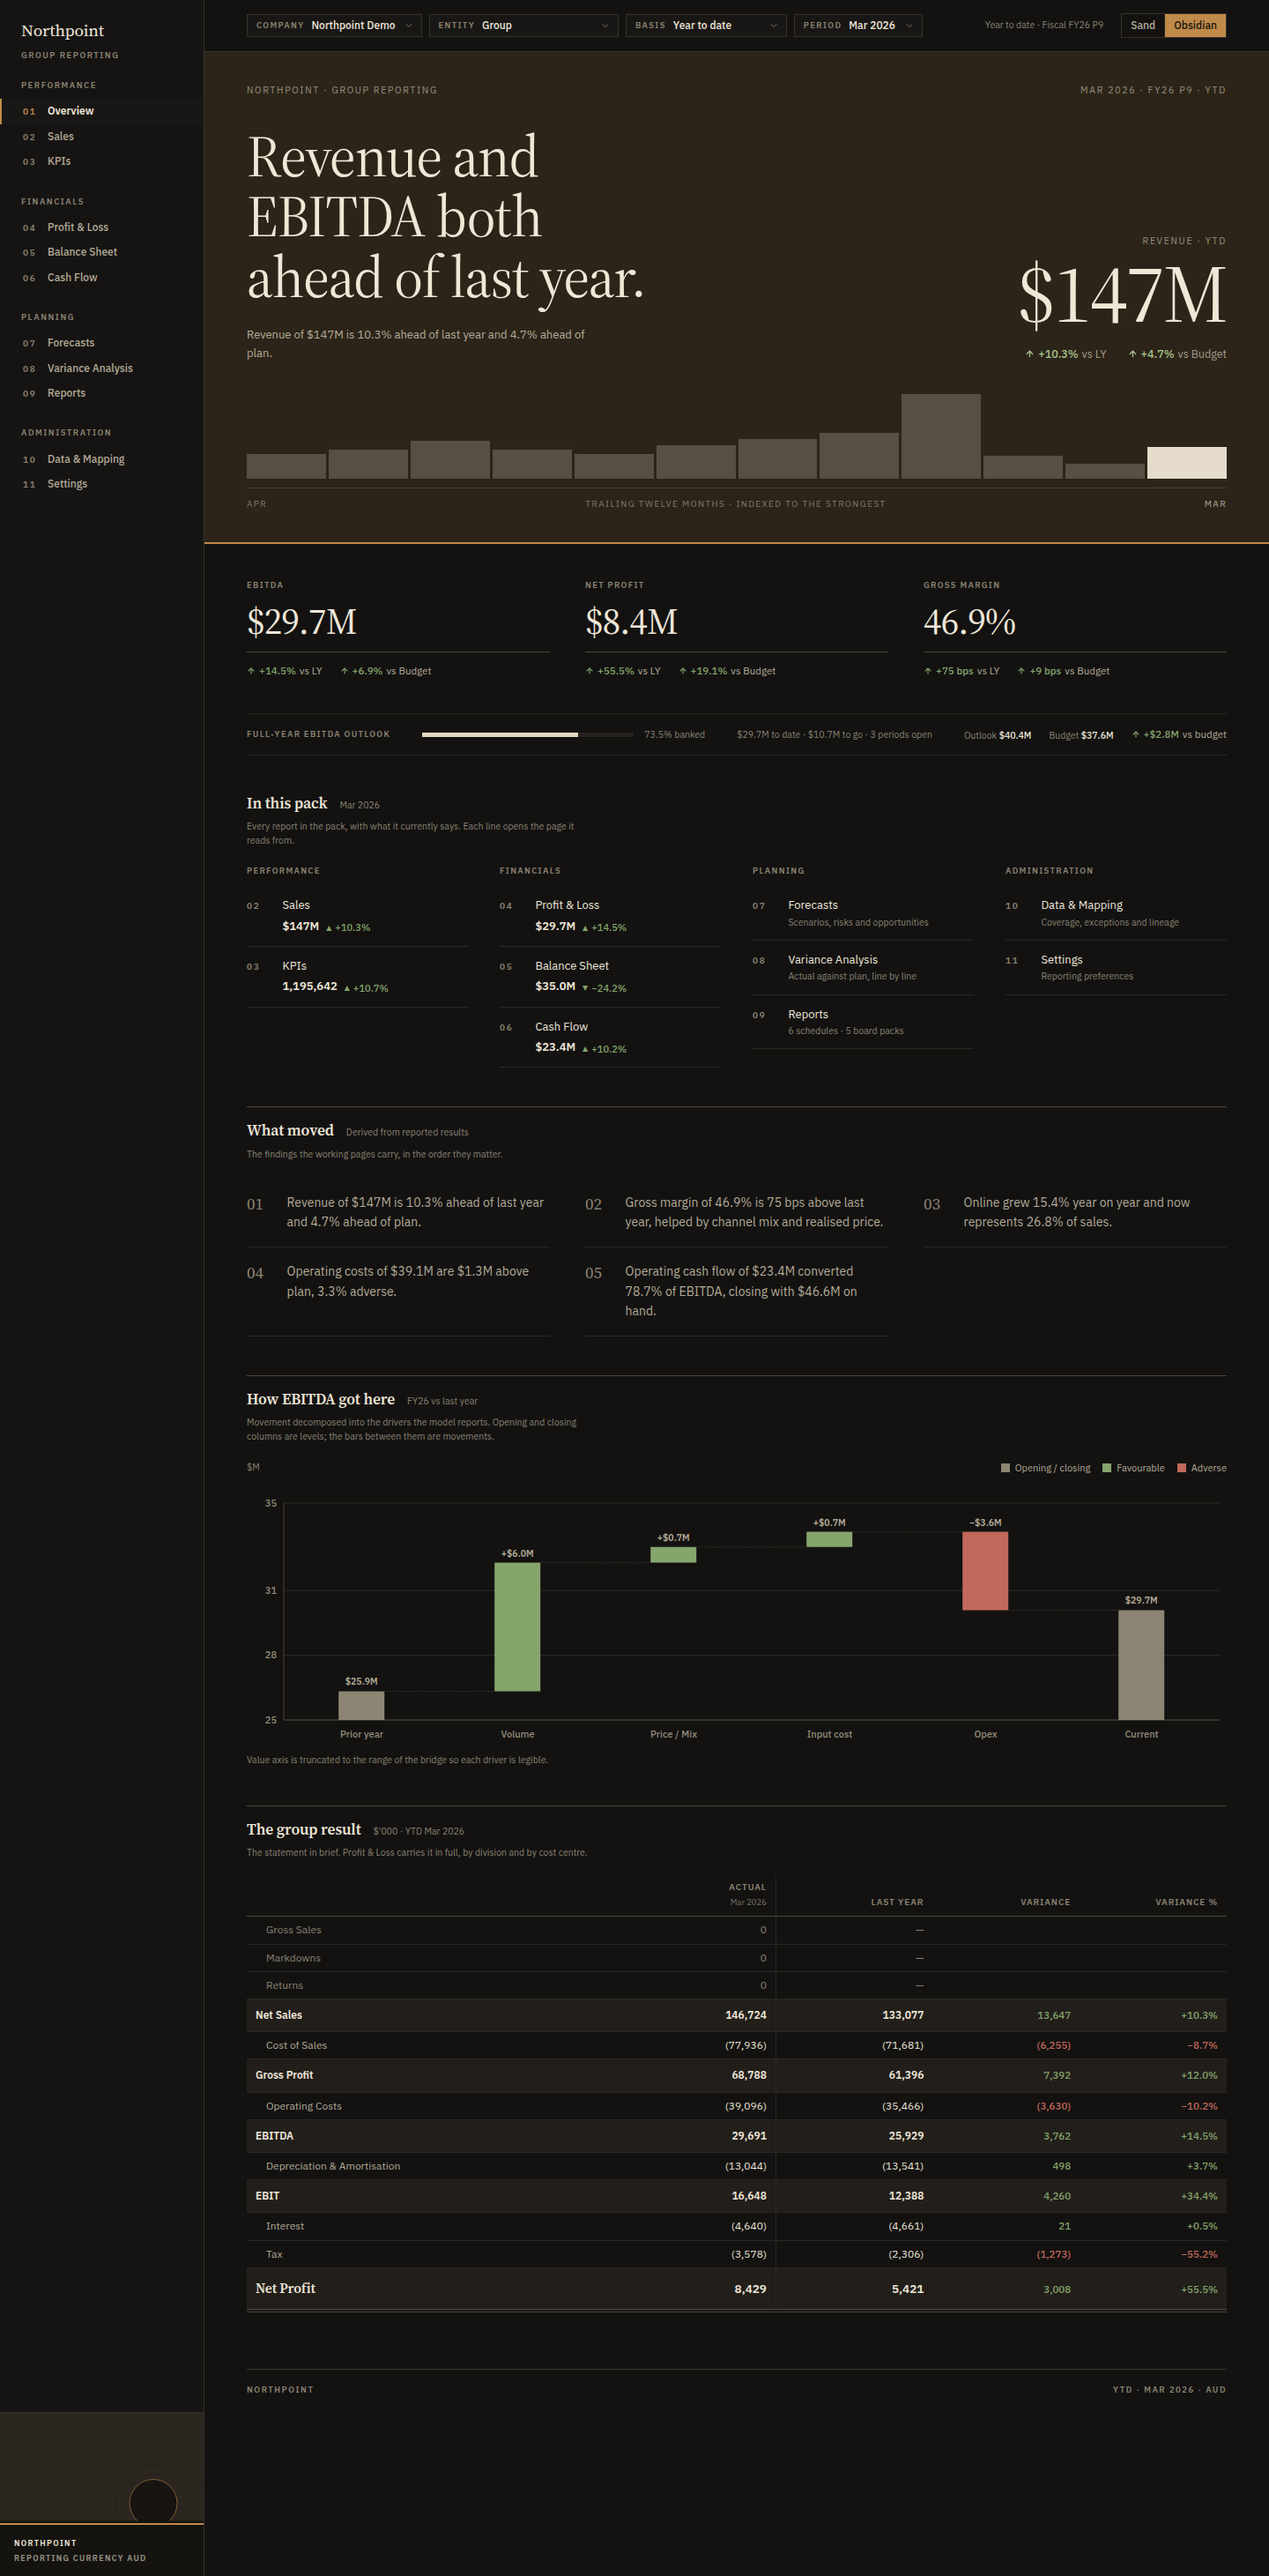
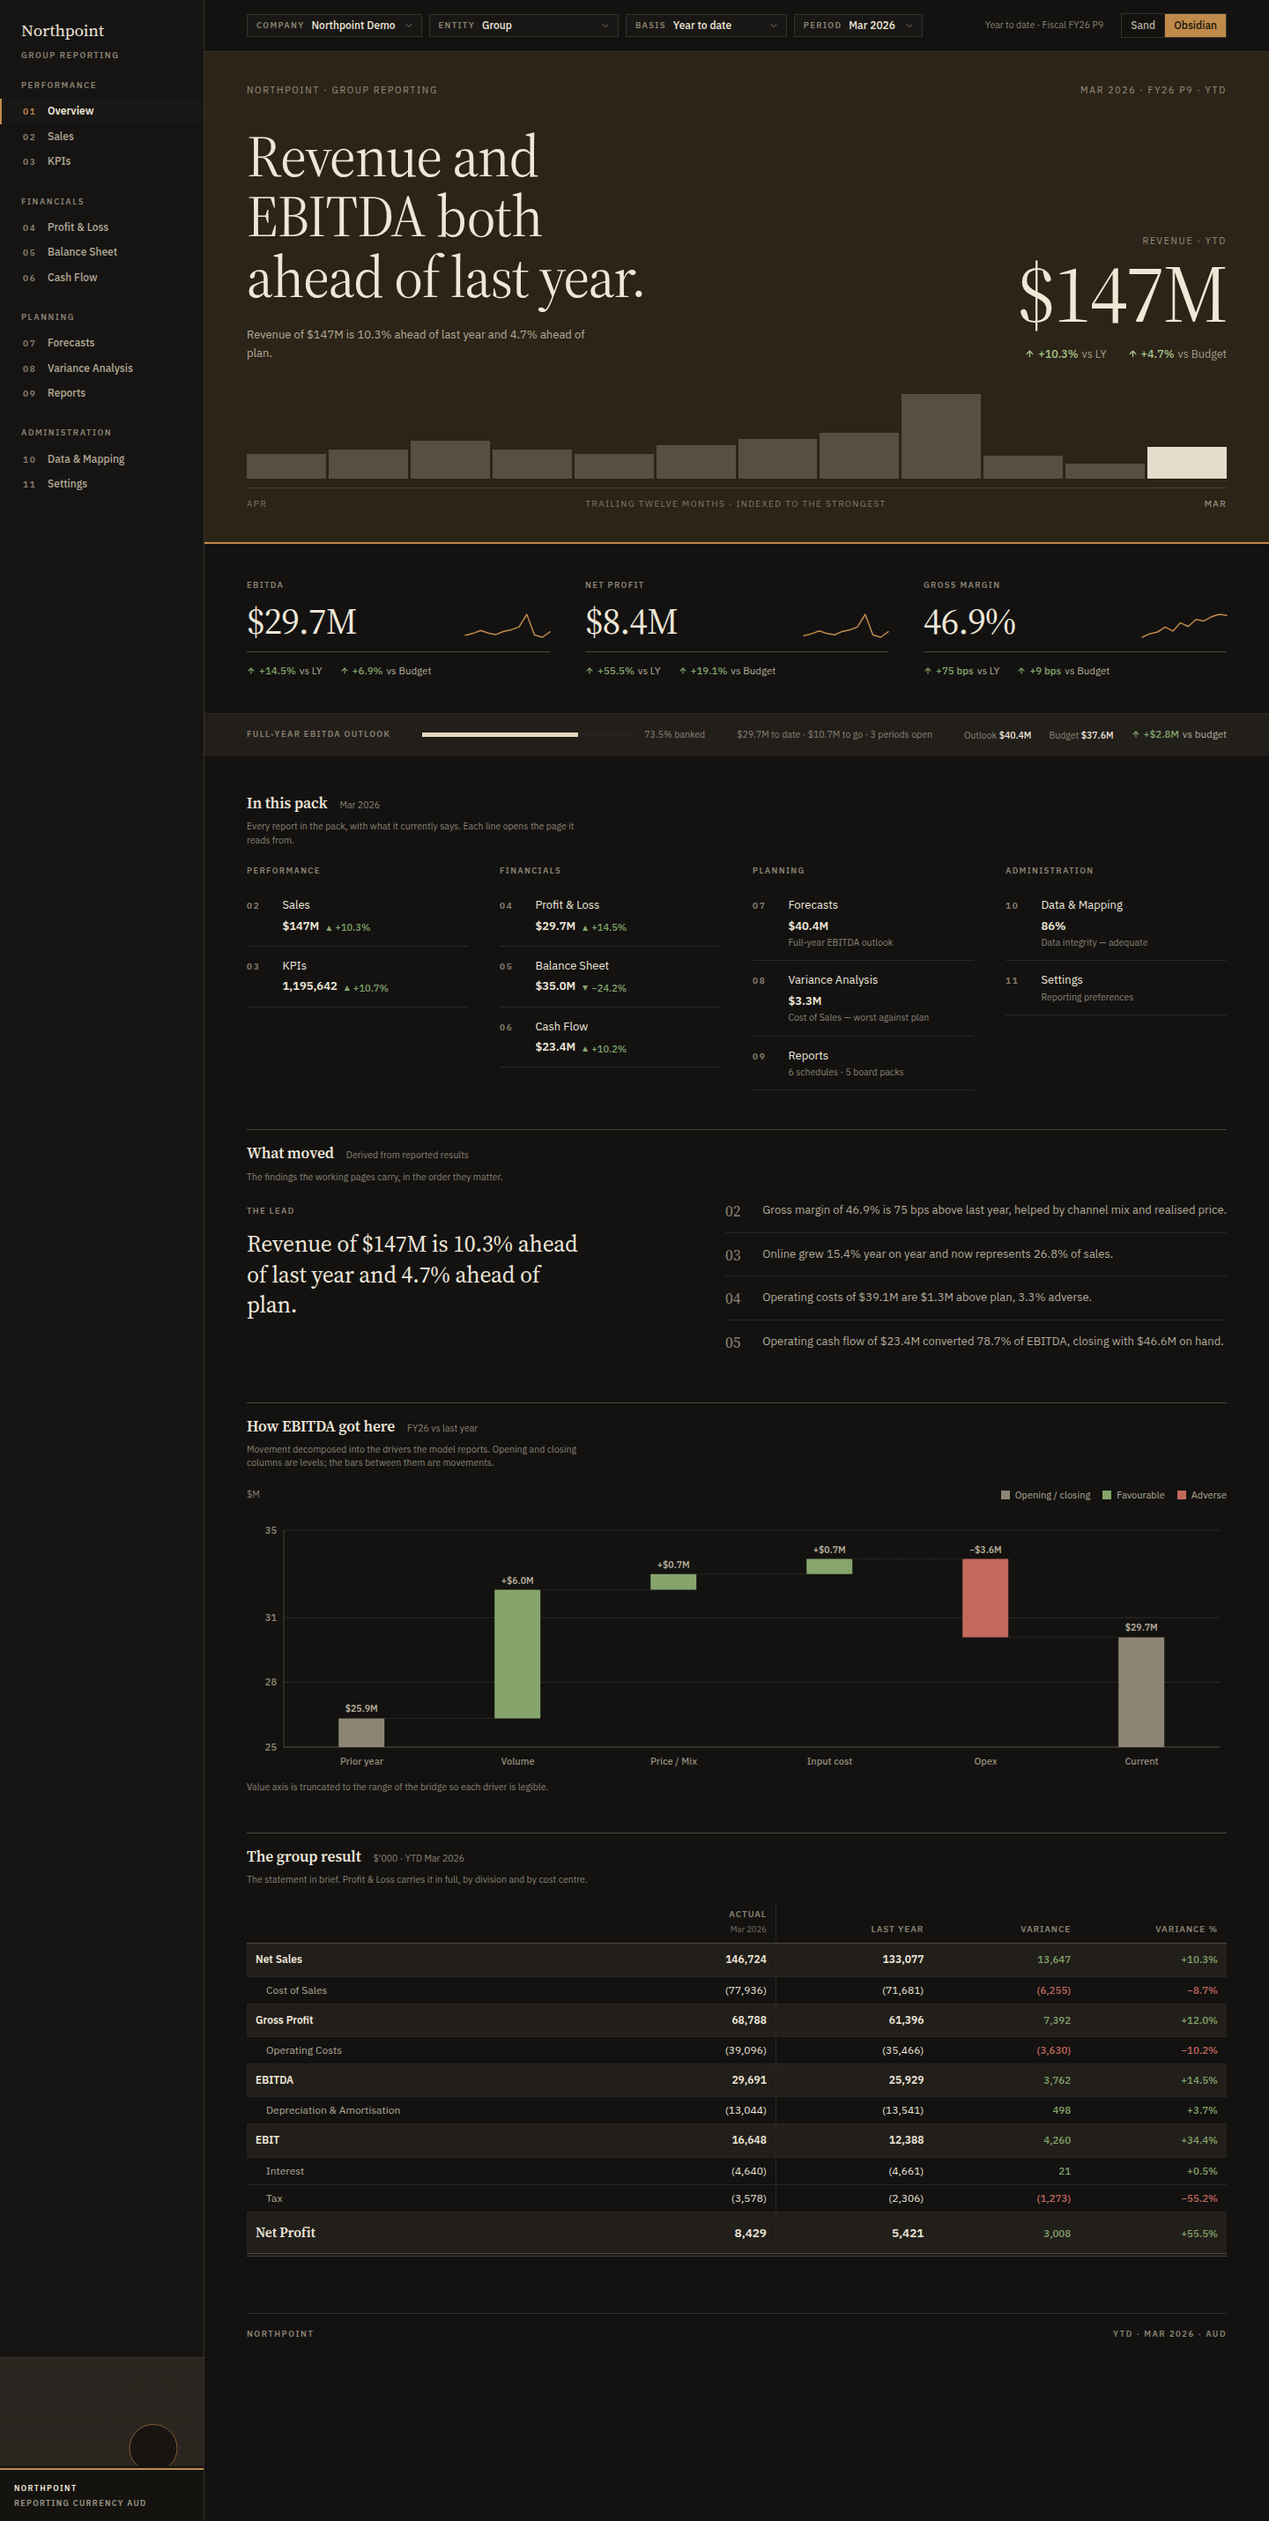
Give the Overview the density its layout was missing
Five changes, each fixing something the composition was getting wrong rather
than adding decoration.

Every headline figure now carries its trailing year beside it. The KPI layer
had already built that series for the sparkline the working pages draw, and
this page was throwing it away — a number alone says where the business ended
up, the same number with twelve months behind it says whether it got there
steadily or in one jump.

Every line of the contents now carries a reading. Pages with registry metrics
clustered in the first two columns and pages with only a description in the
last two, so the spread split into data on the left and filler on the right —
an artefact of navigation order, not a decision. Forecasts leads with the
full-year outlook, Variance with the worst line against plan, Data & Mapping
with its integrity score, each from the selector that page itself calls.

What moved is set as a lead and a ranked rail. The findings are ordered by
importance and a three-column grid destroyed that ordering: it reads across
then down, so the second finding landed beside the first and the reader had no
way to know an order was ever meant.

The group result drops lines that are zero in every scenario instead of muting
them; the page's closing section was opening with three blank rows. The full
ladder is kept, because a statement that visibly does not add up is worse than
a long one.

The outlook sits on a plinth. The page dropped from a full-bleed inverted band
[…]

diff --git a/src/pages/overview/OverviewPage.tsx b/src/pages/overview/OverviewPage.tsx
@@ -8,12 +8,14 @@ import { CoverBand } from "@/components/overview/CoverBand";
 import { Meter } from "@/components/ui/Meter";
 import { buildPerformanceHeadline } from "@/components/finance/performanceHeadline";
 import { VarianceValue } from "@/components/finance/VarianceValue";
+import { Sparkline } from "@/components/finance/Sparkline";
 import { WaterfallChart } from "@/components/charts/WaterfallChart";
 import { StatementTable } from "@/components/tables/StatementTable";
 import { numberedNavigation } from "@/config/navigation";
 import {
-  periodsForBasis, selectEbitdaBridge, selectFullYearOutlook, selectInsights,
-  selectKpis, selectMetricSeries, selectProfitAndLoss, selectReportLibrary,
+  periodsForBasis, selectDataHealth, selectEbitdaBridge, selectFullYearOutlook,
+  selectInsights, selectKpis, selectMetricSeries, selectProfitAndLoss,
+  selectReportLibrary, selectTopVariances,
 } from "@/domain/selectors";
 import { reportingCapabilities, selectAvailable } from "@/domain/selectors/availability";
 import type { KpiDatum } from "@/domain/selectors/kpi";
@@ -87,7 +89,23 @@ function DemoOverviewPage() {
     () => (capabilities.hasPnl ? selectEbitdaBridge(selection) : []),
     [selection, capabilities],
   );
-  const pnlRows = useMemo(() => selectProfitAndLoss(selection), [selection]);
+  /**
+   * The statement in brief. The full ladder is kept — dropping the lines
+   * between EBITDA and net profit would leave a statement that visibly does
+   * not add up, which is worse than a long one — but lines that are zero in
+   * every scenario are dropped rather than muted. The page's closing section
+   * was opening with three blank rows.
+   */
+  const pnlRows = useMemo(
+    () =>
+      selectProfitAndLoss(selection).filter(
+        (row) =>
+          row.isSection ||
+          row.emphasis !== "detail" ||
+          [row.actual, row.budget, row.priorYear, row.forecast].some((value) => (value ?? 0) !== 0),
+      ),
+    [selection],
+  );
 
   return (
     <>
@@ -200,6 +218,12 @@ function CoverFigure({ datum, basis }: { datum: KpiDatum; basis: string }) {
  * enclosing rules and no dividers between cells, each figure instead hung on a
  * hairline of its own with the variance below the line. Three, not four — the
  * fourth figure is the one on the cover.
+ *
+ * Every figure carries its trailing year beside it. A number on its own says
+ * where a business ended up; the same number with twelve months behind it says
+ * whether it got there steadily or in one jump, and the KPI layer has already
+ * built that series for the sparkline the working pages draw. Leaving it out
+ * here was throwing away the most informative thing on the row.
  */
 function FigureRow({ data }: { data: KpiDatum[] }) {
   if (data.length === 0) return null;
@@ -209,8 +233,19 @@ function FigureRow({ data }: { data: KpiDatum[] }) {
       {data.map((datum) => (
         <div key={datum.metric.id} className="min-w-0">
           <div className="type-label">{datum.metric.shortName ?? datum.metric.name}</div>
-          <div className="font-serif text-[clamp(30px,3vw,42px)] leading-none tracking-[-0.015em] tnum mt-3 text-primary">
-            {formatMetric(datum.value, datum.metric)}
+          <div className="flex items-end justify-between gap-5 mt-3">
+            <div className="font-serif text-[clamp(30px,3vw,42px)] leading-none tracking-[-0.015em] tnum text-primary">
+              {formatMetric(datum.value, datum.metric)}
+            </div>
+            {datum.series.length > 1 && (
+              <Sparkline
+                values={datum.series}
+                width={96}
+                height={30}
+                title={datum.metric.name}
+                className="shrink-0 overflow-visible"
+              />
+            )}
           </div>
           <div className="mt-3.5 pt-3 border-t border-strong flex items-baseline gap-x-5 gap-y-1.5 flex-wrap">
             {datum.variance ? (
@@ -251,7 +286,9 @@ function FigureRow({ data }: { data: KpiDatum[] }) {
  */
 interface IndexReading {
   metricId?: string;
-  /** Stated instead of a metric where the page has no single headline figure. */
+  /** A figure the page owns that the metric registry does not define. */
+  stated?: { display: string; caption: string };
+  /** Stated instead of a figure where the page genuinely has none. */
   note?: string;
 }
 
@@ -259,6 +296,27 @@ function PackIndex() {
   const dataset = useReportingDataset();
   const { selection } = useFilters();
   const capabilities = reportingCapabilities(dataset);
+
+  // Three pages lead with something the metric registry does not define: a
+  // full-year position, the worst line against plan, and a coverage score.
+  // Each comes from the selector that page itself calls.
+  const outlook = useMemo(
+    () => selectAvailable("forecast", () => selectFullYearOutlook(selection), dataset),
+    [selection, dataset],
+  );
+  const worstVariance = useMemo(() => {
+    if (!capabilities.hasBudget) return undefined;
+    // Adverse first: an overview should surface what needs someone, and a
+    // favourable variance never does. The selector already signs every line so
+    // that positive means favourable whatever the line — re-applying `inverse`
+    // here inverted the cost lines a second time and picked the SMALLEST
+    // favourable one, which is how "Interest, $0.0M" came to be reported as
+    // the worst line against plan.
+    return selectTopVariances(selection)
+      .filter((item) => item.variance < 0)
+      .sort((a, b) => a.variance - b.variance)[0];
+  }, [selection, capabilities]);
+  const health = useMemo(() => selectDataHealth(), []);
 
   // What each page leads with. Only metrics the registry defines and the
   // resolvers can produce; a page with no single figure says what it is for.
@@ -273,17 +331,24 @@ function PackIndex() {
       "cash-flow": capabilities.hasCashFlow
         ? { metricId: "operatingCashFlow" }
         : { note: "No cash flow supplied" },
-      forecasts: capabilities.hasForecast
-        ? { note: "Scenarios, risks and opportunities" }
+      forecasts: outlook
+        ? { stated: { display: formatCurrency(outlook.forecast), caption: "Full-year EBITDA outlook" } }
         : { note: "No forecast supplied" },
-      variance: capabilities.hasBudget
-        ? { note: "Actual against plan, line by line" }
-        : { note: "No plan supplied" },
+      variance: worstVariance
+        ? {
+            stated: {
+              display: formatCurrency(Math.abs(worstVariance.variance)),
+              caption: `${worstVariance.label} — worst against plan`,
+            },
+          }
+        : { note: capabilities.hasBudget ? "Nothing adverse against plan" : "No plan supplied" },
       reports: { note: "Schedules, exports and board packs" },
-      "data-mapping": { note: "Coverage, exceptions and lineage" },
+      "data-mapping": {
+        stated: { display: `${Math.round(health.score)}%`, caption: `Data integrity — ${health.grade.toLowerCase()}` },
+      },
       settings: { note: "Reporting preferences" },
     }),
-    [capabilities],
+    [capabilities, outlook, worstVariance, health],
   );
 
   const metricIds = useMemo(
@@ -338,8 +403,16 @@ function PackIndex() {
                         </span>
                         {/* The figure IS the reading. A note as well as a figure
                             says the same thing twice in half the width. */}
-                        {!datum && note && (
+                        {!datum && !reading?.stated && note && (
                           <span className="type-caption block mt-0.5">{note}</span>
+                        )}
+                        {!datum && reading?.stated && (
+                          <span className="block mt-1">
+                            <span className="text-[13px] font-semibold text-primary tnum">
+                              {reading.stated.display}
+                            </span>
+                            <span className="type-caption block mt-0.5">{reading.stated.caption}</span>
+                          </span>
                         )}
                         {datum && (
                           <span className="flex items-baseline gap-2 mt-1">
@@ -375,29 +448,47 @@ function PackIndex() {
 /**
  * WHAT MOVED
  * ---------------------------------------------------------------------------
- * The same findings the working pages carry, set as statements rather than as
- * a numbered list: the ordinal is large and quiet, the sentence is the size of
- * body copy that expects to be read, and a rule separates one from the next.
+ * The findings are RANKED, and a grid destroys a ranking: three columns read
+ * across then down, so the second-most-important finding lands beside the
+ * first rather than beneath it, and the reader has no way to know the order
+ * was ever meant.
+ *
+ * So it is set the way a front page sets a lead: the first finding large and
+ * given its own measure, the rest following it as a ranked rail. The reader
+ * gets the ordering back and the section keeps a shape.
  */
 function MovementNotes({ insights }: { insights: Insight[] }) {
   if (insights.length === 0) {
     return <p className="type-body">No movements of note in the reported results.</p>;
   }
 
+  const [lead, ...rest] = insights.slice(0, 6);
+
   return (
-    <ol className="grid grid-cols-1 md:grid-cols-2 xl:grid-cols-3 gap-x-10">
-      {insights.slice(0, 6).map((insight, index) => (
-        <li
-          key={insight.id}
-          className="grid grid-cols-[2.1rem_minmax(0,1fr)] gap-x-3 py-4 border-b border-subtle"
-        >
-          <span className="font-serif text-[19px] leading-none text-tertiary tnum pt-[3px]">
-            {String(index + 1).padStart(2, "0")}
-          </span>
-          <p className="type-body-lead">{insight.text}</p>
-        </li>
-      ))}
-    </ol>
+    <div className="grid grid-cols-1 lg:grid-cols-[minmax(0,1fr)_minmax(0,1.15fr)] gap-x-12 gap-y-8">
+      <div className="min-w-0">
+        <span className="type-label">The lead</span>
+        <p className="font-serif text-[clamp(20px,1.85vw,26px)] leading-[1.32] tracking-[-0.008em] text-primary mt-3 max-w-[30ch]">
+          {lead.text}
+        </p>
+      </div>
+
+      {rest.length > 0 && (
+        <ol className="min-w-0 flex flex-col">
+          {rest.map((insight, index) => (
+            <li
+              key={insight.id}
+              className="grid grid-cols-[1.9rem_minmax(0,1fr)] gap-x-3 py-3.5 border-b border-subtle last:border-b-0 first:pt-0"
+            >
+              <span className="font-serif text-[17px] leading-none text-tertiary tnum pt-[3px]">
+                {String(index + 2).padStart(2, "0")}
+              </span>
+              <p className="type-body">{insight.text}</p>
+            </li>
+          ))}
+        </ol>
+      )}
+    </div>
   );
 }
 
@@ -414,7 +505,10 @@ function OutlookStrip({ outlook }: { outlook: ReturnType<typeof selectFullYearOu
   const progress = outlook.forecast === 0 ? 0 : outlook.actualToDate / outlook.forecast;
 
   return (
-    <div className="mt-10 flex items-center gap-x-9 gap-y-3 flex-wrap py-3.5 border-y border-subtle">
+    // A plinth under the cover. Without it the page drops from a full-bleed
+    // inverted band straight onto open canvas, and the join reads as a cliff.
+    <div className="-mx-8 lg:-mx-12 mt-10 px-8 lg:px-12 bg-inset border-y border-subtle">
+      <div className="flex items-center gap-x-9 gap-y-3 flex-wrap py-3.5">
       <span className="type-label shrink-0">Full-year EBITDA outlook</span>
 
       <div className="flex items-center gap-3 min-w-[220px] flex-1 max-w-[420px]">
@@ -442,6 +536,7 @@ function OutlookStrip({ outlook }: { outlook: ReturnType<typeof selectFullYearOu
           </VarianceValue>
         )}
       </span>
+      </div>
     </div>
   );
 }
